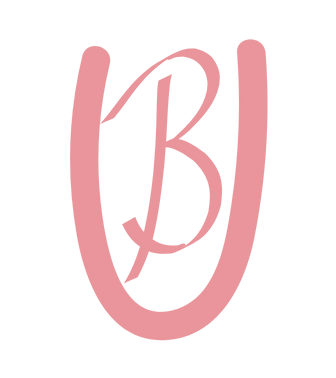
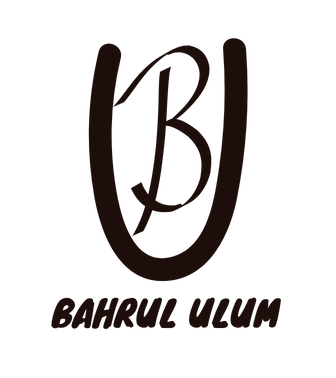
cek

Changed region(s): [[0.1488, 0.0873, 0.8333, 0.9021]]

diff --git a/assets/css/style.css b/assets/css/style.css
@@ -4,15 +4,16 @@
 :root {
     --header-height: 3.5rem;
   
-    /* ========== Colors ========== */
-    /* Color mode HSL(hue, saturation, lightness) */
-    /* https://www.w3schools.com/colors/colors_hsl.asp */
-    /*
+    /* ========== Colors ==========
+    Color mode HSL(hue, saturation, lightness)
+    https://www.w3schools.com/colors/colors_hsl.asp
+    
           Purple: hsl(250, 66%, 75%)
           Blue: hsl(207, 90%, 72%)
           Pink: hsl(356, 66%, 75%)
           Teal: hsl(174, 63%, 62%)
     */
+
     --first-hue: 30;
     --second-hue: 11;
     --sat: 66%;
@@ -26,8 +27,8 @@
     --body-color: hsl(var(--second-hue), 48%, 8%);
     --container-color: hsl(var(--second-hue), 32%, 12%);
   
-    /*========== Font and typography ==========*/
-    /*.5rem = 8px | 1rem = 16px ...*/
+    /* ========== Font and typography ==========
+    .5rem = 8px | 1rem = 16px ... */
     --body-font: 'Poppins', sans-serif;
     --biggest-font-size: 1.75rem;
     --h1-font-size: 1.5rem;
@@ -117,6 +118,7 @@ img {
 .ganti-mode:hover{
     color: var(--first-color);
 }
+
 /*========== Variables Light theme ==========*/
 body.light-theme{
     --title-color: hsl(var(--second-hue), 15%, 15%);
@@ -133,33 +135,41 @@ body.light-theme{
     background-color: hsl(var(--second-hue), 32%, 90%, .8);
 }
 
-.light-theme .section_subtitle, 
-.light-theme .home_social-link, 
-.light-theme .home_scroll, 
-.light-theme .footer_title,
-.light-theme .footer_link,
-.light-theme .footer_credit{
+.light-theme .section_subtitle{
     color: var(--title-color);
 }
 
 .light-theme .button{
+    color: #fff;
+} 
+.light-theme .footer_link{
     color: var(--body-color)
 }
 
-.light-theme .button:hover{
-    color: var(--text-color);
+.light-theme .home_social-link{
+    background-color: var(--first-color);
+    color: #fff;
 }
 
-.light-theme .home_social-link,
+.light-theme .button:hover, 
+.light-theme .footer_link:hover,
+.light-theme .footer_social-link:hover{
+    color: var(--title-color);
+}
+
+.light-theme .home_scroll:hover{
+    color: var(--title-color);
+    transform: translateY(.25rem);
+}
+
+.light-theme .home_social-link:hover{
+    color: var(--title-color);
+}
+
 .light-theme .contact_card{
     box-shadow: 0 2px 8px hsla(var(--second-hue), 48%, 8%, .1);
 }
 
-.light-theme .home_social::after,
-.light-theme .footer_social-link{
-    background-color: var(--title-color);
-}
-  
 .light-theme::-webkit-scrollbar{
     background-color: hsl(var(--second-hue), 8%, 66%);
 }
@@ -230,6 +240,8 @@ body.light-theme{
     color: var(--first-color);
     font-weight: var(--font-medium);
     transition: .4s;
+    width: 40px;
+    height: 40px;
 }
 
 .nav_logo:hover{
@@ -289,7 +301,7 @@ body.light-theme{
 
 .home_one, .home_pend{
     font-size: var(--small-font-size);
-    font-weight: font var(--font-medium);
+    font-weight: var(--font-medium);
 }
 
 .home_one{
@@ -346,8 +358,8 @@ body.light-theme{
 
 .home_social-link{
     width: max-content;
-    background-color: var(--container-color);
-    color: var(--first-color);
+    background-color: var(--first-color);
+    color: var(--body-color);
     padding: .25rem;
     border-radius: .25rem;
     display: flex;
@@ -377,6 +389,11 @@ body.light-theme{
     justify-items: center;
 }
 
+.home_scroll:hover{
+    color: #fff;
+    transform: translateY(.25rem);
+}
+
 .home_scroll-icon{
     font-size: 1.25rem;
 }
@@ -386,7 +403,6 @@ body.light-theme{
     transform: rotate(-90deg);
 }
 
-  
 /*=============== BUTTONS ===============*/
 .button{
     display: inline-block;
@@ -399,8 +415,7 @@ body.light-theme{
 }
 
 .button:hover{
-    background-color: var(--first-color-alt);
-    color: var(--text-color);
+    color: #fff;
 }
 
 /*=============== ABOUT ===============*/
@@ -507,6 +522,7 @@ body.light-theme{
 .footer_title, .footer_link{
     color: var(--body-color);
 }
+
 .footer_title{
     text-align: center;
     margin-bottom: 2rem;
@@ -534,6 +550,11 @@ body.light-theme{
     display: inline-flex;
 }
 
+.footer_social-link:hover,
+.footer_link:hover{
+    color: #fff;
+}
+
 .footer_credit{
     display: block;
     margin-top: 4.5rem;
@@ -558,9 +579,8 @@ body.light-theme{
     background-color: hsl(var(--second-hue), 8%, 20%);
 }
 
-
-/*=============== BREAKPOINTS ===============*/
-/* For small devices */
+/* =============== BREAKPOINTS ===============
+For small devices */
 @media screen and (max-width: 320px) {
     .nav_menu{
         padding: 1rem 1.5rem;

diff --git a/index.html b/index.html
@@ -5,7 +5,7 @@
         <meta name="viewport" content="width=device-width, initial-scale=1.0">
 
         <link href='https://unpkg.com/boxicons@2.1.2/css/boxicons.min.css' rel='stylesheet'>
-        <link rel="shortcut icon" href="assets/img/icon.png" type="image/x-icon">
+        <link rel="shortcut icon" href="assets/img/icon2.png" type="image/x-icon">
         <link rel="stylesheet" href="assets/css/style.css">
 
         <title>Ulumfr | Bahrul Ulum</title>
@@ -13,7 +13,9 @@
     <body>
         <header class="header" id="header">
             <nav class="nav container">
-                <a href="#home" class="nav_logo">Ulumfr</a>
+                <a href="#home" class="nav_logo">
+                    <img src="assets/img/icon2.png" alt="logo">
+                </a>
                 <div class="nav_menu">
                     <ul class="nav_list">
                         <li class="nav_item">
@@ -151,7 +153,7 @@
 
         <footer class="footer">
             <div class="footer_container container">
-                <h1 class="footer_title">Ulumfr</h1>
+                <h1 class="footer_title">Bahrul Ulum</h1>
 
                 <ul class="footer_list">
                     <li>
